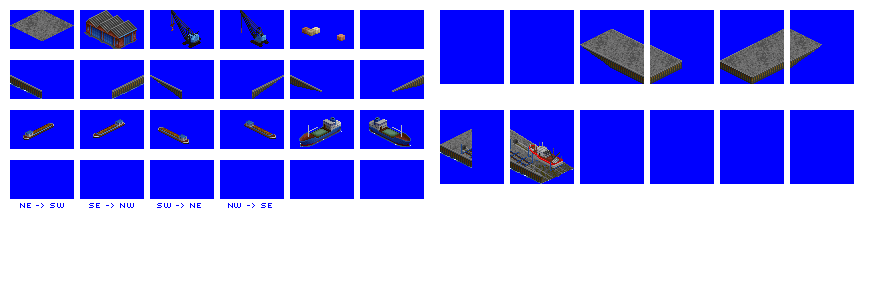
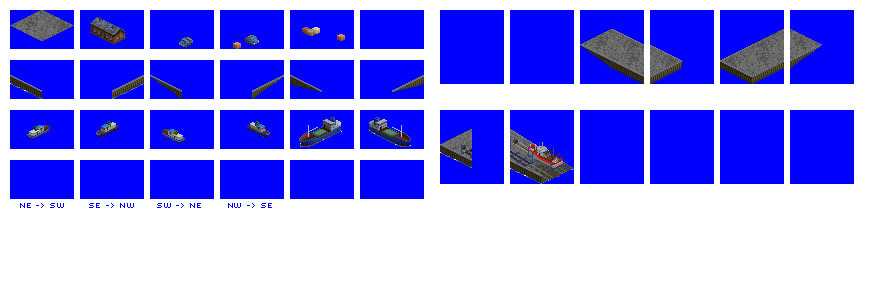
Change: graphics for Trading Post (closes #6044)

diff --git a/src/industries/trading_post.py b/src/industries/trading_post.py
@@ -137,14 +137,6 @@ spriteset_14 = industry.add_spriteset(
     id = 'trading_post_spriteset_14',
     sprites = [(220, 110, 64, 39, -27, -12)],
 )
-spriteset_15 = industry.add_spriteset(
-    id = 'trading_post_spriteset_15',
-    sprites = [(290, 110, 64, 39, -15, -11)],
-)
-spriteset_16 = industry.add_spriteset(
-    id = 'trading_post_spriteset_16',
-    sprites = [(360, 110, 64, 39, -45, -15)],
-)
 spriteset_17 = industry.add_spriteset(
     id = 'trading_post_spriteset_17',
     sprites = [(360, 10, 64, 39, -31, 0)],
@@ -305,13 +297,13 @@ industry.add_spritelayout(
     id = 'trading_post_spritelayout_26',
     ground_sprite = sprite_ground,
     ground_overlay = spriteset_ground_empty,
-    building_sprites = [spriteset_15]
+    building_sprites = []
 )
 industry.add_spritelayout(
     id = 'trading_post_spritelayout_27',
     ground_sprite = sprite_ground,
     ground_overlay = spriteset_ground_empty,
-    building_sprites = [spriteset_16]
+    building_sprites = []
 )
 industry.add_spritelayout(
     id = 'trading_post_spritelayout_28',
